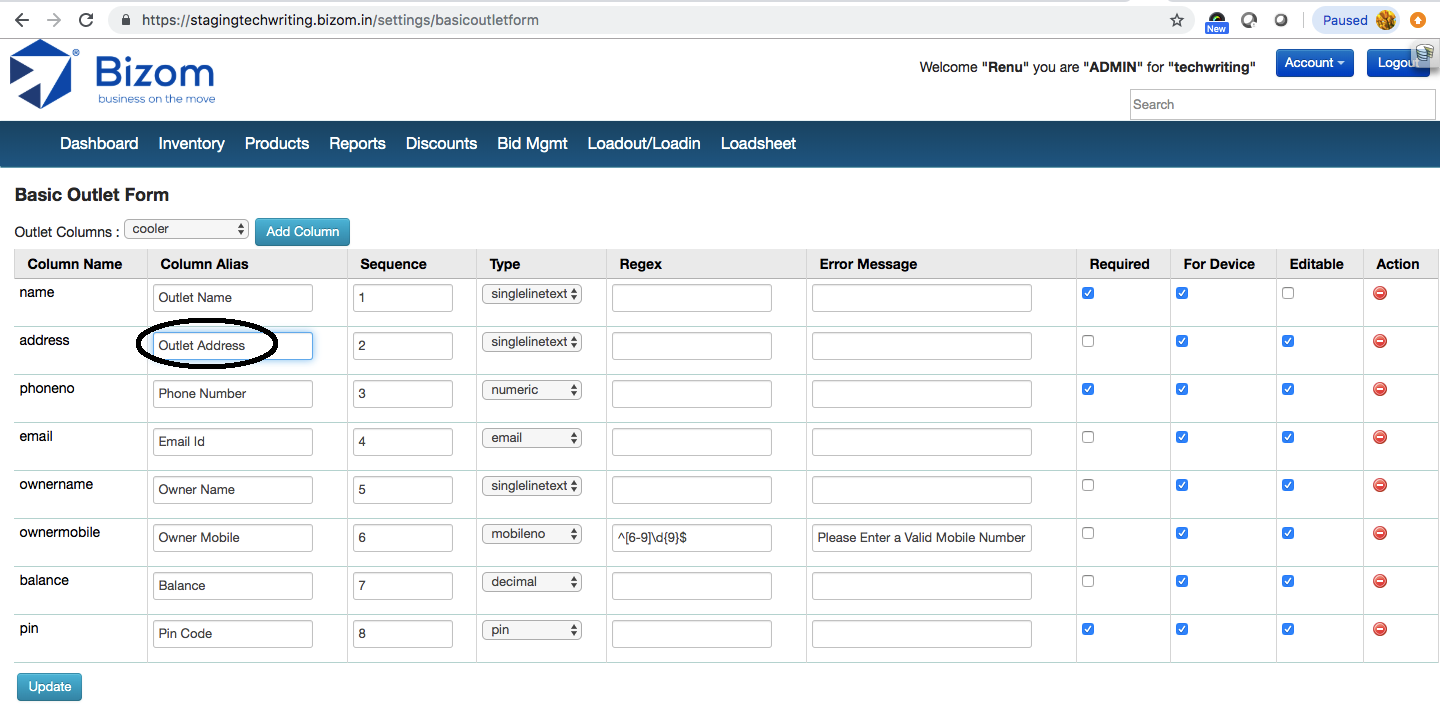
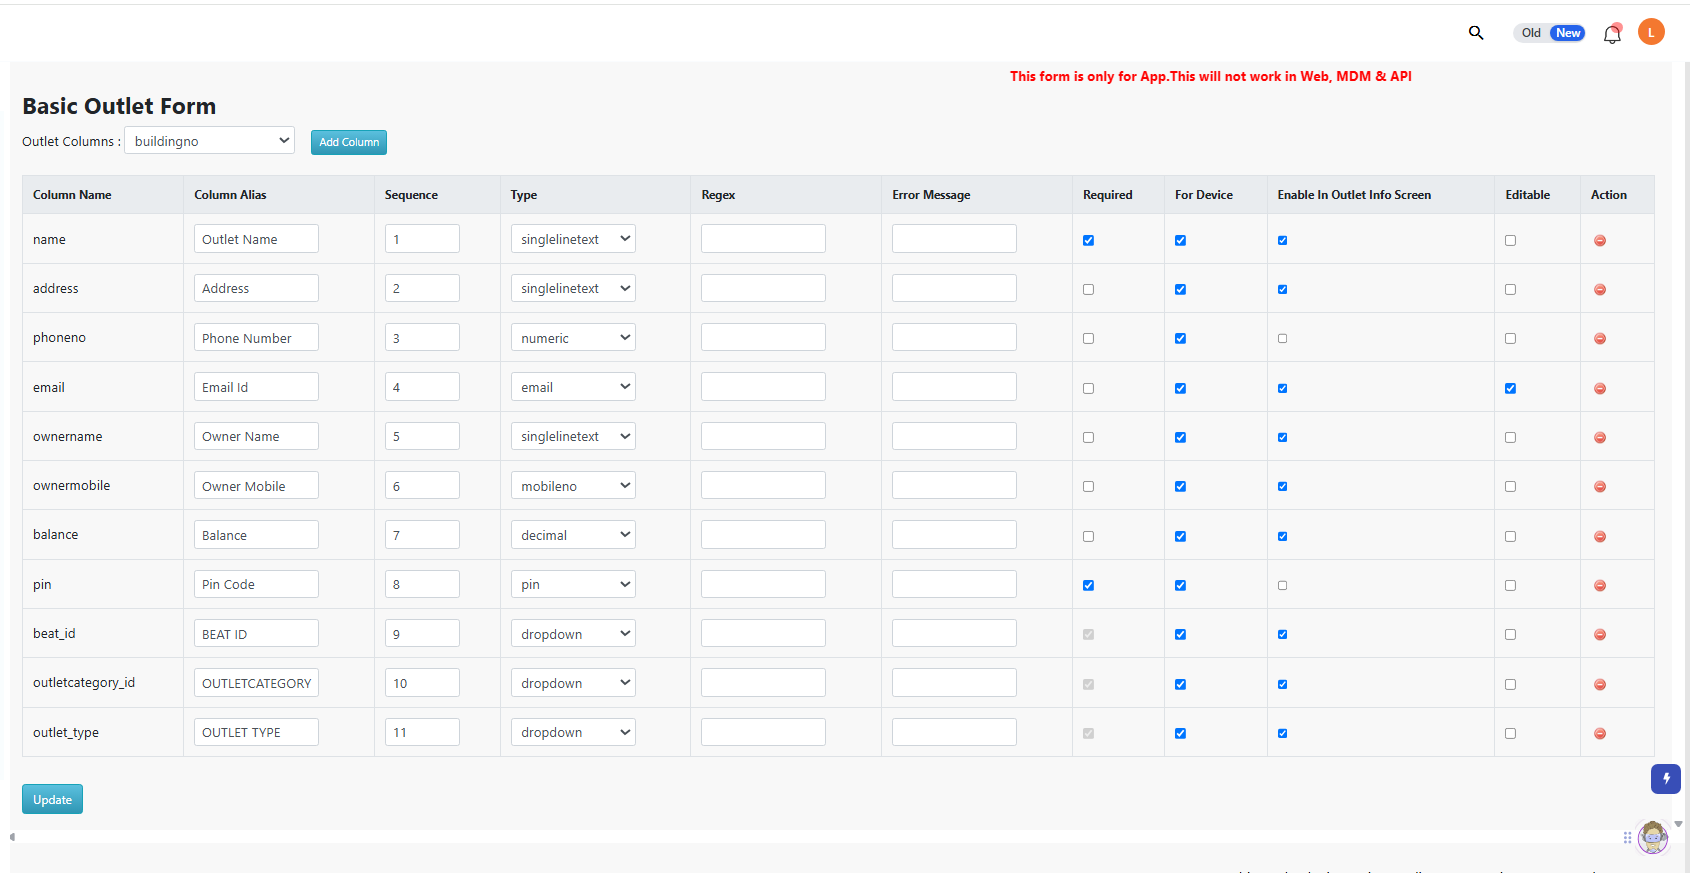
Update stale Basic Outlet Form screenshot in Rename Existing Fields section

diff --git a/js/main.js b/js/main.js
@@ -11,7 +11,7 @@
 // timestamp, commit hash, whatever). Powers the "new version available"
 // banner in initVersionCheck() below: open tabs poll for this string and
 // prompt a refresh the moment it changes on the server.
-const BIZOM_BUILD_ID = "2026-08-19.1";
+const BIZOM_BUILD_ID = "2026-08-19.2";
 
 const CATEGORY_ORDER = [
   "Outlets & Geography",
